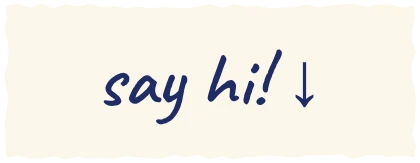
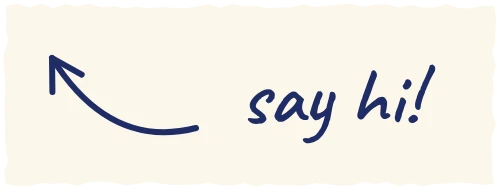
WIP: builders' in-progress edits
Claude-Session: https://claude.ai/code/session_016nJieuj3hz1PRLzcMUTyK7

Changed region(s): [[0.4952, 0.3067, 0.8976, 0.7669], [0.0929, 0.2761, 0.4643, 0.7669]]

diff --git a/site/js/dom.js b/site/js/dom.js
@@ -1,7 +1,7 @@
 // The DOM half of the page: sections laid out from the timeline, pins,
 // scroll-keyed reveals, the countdown, and project captions that follow the
 // room's camera. Everything is driven from the same frame as WebGL.
-import { TIMELINE as T, clamp01, flashEnvelope, progress, smooth, softPin } from './motion/timeline.js';
+import { LEAK, TIMELINE as T, clamp01, flashEnvelope, progress, smooth, softPin, wallLeak } from './motion/timeline.js';
 
 const opacityStyle = (value) => value.toFixed(3);
 
@@ -10,7 +10,12 @@ const opacityStyle = (value) => value.toFixed(3);
 // page's text whites out with the scene. The warmth of the build and decay
 // comes from the composite showing through as the veil fades. Distances are
 // in frame heights, as in the composite.
-const VEIL = { centre: [255, 252, 244], edge: [251, 239, 218], falloff: 2, edgeOpacity: 1 };
+const VEIL = { centre: [255, 252, 244], edge: [251, 239, 218], falloff: 2, edgeOpacity: 1, origin: [0.5, 0.5] };
+// The light leak drives a second veil in the same way, painted with the
+// leak's colours: centred on the wall's sun in the upper left (where the
+// page's text sits), cream at the source and amber away from it, and clear at
+// the far side so the room keeps reading through the flare.
+const LEAK_VEIL = { centre: [253, 248, 232], edge: [236, 170, 105], falloff: 0.8, edgeOpacity: 0, origin: [0.1, 0.2] };
 
 export class Dom {
   constructor(doc, { reduced }) {
@@ -23,6 +28,11 @@ export class Dom {
     this.counts = [...doc.querySelectorAll('[data-count]')];
     this.countdown = doc.querySelector('.countdown');
     this.veil = doc.querySelector('[data-flash-veil]');
+    // Fixed over the whole frame: the text it washes scrolls through it.
+    this.leakVeil = doc.createElement('canvas');
+    this.leakVeil.setAttribute('aria-hidden', 'true');
+    this.leakVeil.style.cssText = 'position: fixed; inset: 0; width: 100%; height: calc(var(--vh) * 100); pointer-events: none; opacity: 0; visibility: hidden; will-change: opacity;';
+    doc.getElementById('content')?.after(this.leakVeil);
     this.intros = [...doc.querySelectorAll('[data-intro]')];
     this.projects = [...doc.querySelectorAll('[data-project]')];
     this.counter = doc.querySelector('[data-project-counter]');
@@ -51,7 +61,8 @@ export class Dom {
       const start = T.sections[block.closest('[data-section]').dataset.section][0];
       block.style.top = `${(T.blocks[block.dataset.block] - start) * vh}px`;
     });
-    if (this.veil) this.paintVeil(Math.ceil(this.root.clientWidth / 2), Math.ceil(vh / 2));
+    if (this.veil) this.paintVeil(this.veil, VEIL, Math.ceil(this.root.clientWidth / 2), Math.ceil(vh / 2));
+    if (this.leakVeil.isConnected) this.paintVeil(this.leakVeil, LEAK_VEIL, Math.ceil(this.root.clientWidth / 2), Math.ceil(vh / 2));
     // The countdown's box is the strip's slot at a fixed layout size; each
     // frame scales it from that width to the slot's width on screen.
     this.countdownWidth = this.countdown?.offsetWidth ?? 0;
@@ -60,20 +71,19 @@ export class Dom {
   // Painted once per layout at half resolution, never per frame. The gradient
   // is long and slow, so about one level of triangular noise keeps it from
   // banding into rings. The falloff is separable: across times down.
-  paintVeil(width, height) {
+  paintVeil(canvas, palette, width, height) {
     if (!width || !height) return;
-    const canvas = this.veil;
     canvas.width = width;
     canvas.height = height;
     const context = canvas.getContext('2d');
     const image = context.createImageData(width, height);
     const { data } = image;
-    const { centre, edge, falloff, edgeOpacity } = VEIL;
+    const { centre, edge, falloff, edgeOpacity, origin: [ox, oy] } = palette;
     const across = new Float32Array(width);
-    for (let x = 0; x < width; x += 1) across[x] = Math.exp(-falloff * ((x + 0.5 - width / 2) / height) ** 2);
+    for (let x = 0; x < width; x += 1) across[x] = Math.exp(-falloff * ((x + 0.5 - ox * width) / height) ** 2);
     let seed = 0x9e3779b9;
     for (let y = 0, i = 0; y < height; y += 1) {
-      const down = Math.exp(-falloff * ((y + 0.5) / height - 0.5) ** 2);
+      const down = Math.exp(-falloff * ((y + 0.5) / height - oy) ** 2);
       for (let x = 0; x < width; x += 1, i += 4) {
         const glow = across[x] * down;
         seed ^= seed << 13;
@@ -131,6 +141,10 @@ export class Dom {
       const veil = T.flash.veil * smooth(progress(flashEnvelope(v), [0.05, 0.9])) * (this.reduced ? 0.05 : 1);
       this.set(this.veil, '', opacityStyle(veil));
     }
+    // The leak washes the text out with the scene and lets it back as the room
+    // settles. Reduced motion has no leak veil: its composite is a crossfade.
+    const leak = this.reduced ? 0 : LEAK.veil * wallLeak(v) ** 1.5;
+    this.set(this.leakVeil, '', opacityStyle(leak));
 
     // Load-in: each element has a delay (0..1) along the intro.
     this.intros.forEach((el) => {

diff --git a/site/js/motion/timeline.js b/site/js/motion/timeline.js
@@ -24,8 +24,8 @@ export const TIMELINE = {
 
   // Unpinned blocks: the scroll value at which each block's top meets the top of the screen.
   blocks: {
-    'about-intro': 5.74,
-    'about-goal': 6.08,
+    'about-intro': 5.44, // the copy rises in while the camera is still gliding (enters ~4.65)
+    'about-goal': 5.78,
     contact: 14.4,
   },
 
@@ -59,16 +59,15 @@ export const TIMELINE = {
   },
 
   about: {
-    // Glide past the opening cluster at about the copy's speed (the wall drifts up
-    // with a gentle camera drop), then settle by the about cluster. Lengthened by
-    // 0.8 vh so the copy never sits on a photo and peak wall speed stays ~1.2x the copy's.
-    // The glide lands on the about cluster's framing by 5.5, while the whole
-    // copy is on screen, then pushes in slowly until the light leak.
-    dolly: [3.25, 5.5, 6.25],
+    // Glide past the opening cluster (the wall drifts up with a gentle camera
+    // drop) while the about copy starts to rise, land on the cluster's framing
+    // by 5.25, then keep a slow drift and push while the copy scrolls, until
+    // the light leak. The copy stays at least ~170 px off every photo.
+    dolly: [3.25, 5.25, 6.25],
     // The sun swings right and down onto the copy column and the about window
     // fades in over the day's: in by the time the copy rises into view, out
     // once the light leak has hidden the wall.
-    light: { in: [4.3, 5.0], fade: [4.3, 4.9], out: [6.42, 6.75] },
+    light: { in: [4.1, 4.75], fade: [4.1, 4.65], out: [6.42, 6.75] },
   },
 
   transitions: {
@@ -137,6 +136,22 @@ export const softPin = (x, length, s = TIMELINE.softness) => {
 export const flashEnvelope = (v, { fire, rise, fade } = TIMELINE.flash) => (v < fire
   ? smooth(progress(v, [fire - rise, fire]))
   : (1 - smooth(progress(v, [fire, fire + fade]))) ** 2);
+
+// Wall to room is light, not a wipe. In fractions of the transition window:
+// the glare builds to its peak exactly as the chapters cross (the swap is
+// centred on the peak, `half` either side, 0.15 vh in all), then decays over
+// the rest of the window and eases out, so the room's darkness arrives as a
+// ramp that settles instead of stopping dead. `veil` is the peak opacity of
+// the DOM veil that washes the page's text out with the flare.
+export const LEAK = { peak: 0.3, half: 0.125, veil: 0.85 };
+export const leakGlare = (p) => {
+  if (p < LEAK.peak) return smooth(p / LEAK.peak) ** 0.45;
+  const q = (p - LEAK.peak) / (1 - LEAK.peak);
+  return (1 - q) ** 1.75 * (1 + 0.75 * q);
+};
+// The same glare keyed on scroll, 0 outside the window. The composite and the
+// DOM veil both read it, so the text washes exactly with the scene.
+export const wallLeak = (v) => leakGlare(progress(v, TIMELINE.transitions.wallToRoom));
 
 // Critically damped approach, frame-rate independent.
 export const damp = (current, target, lambda, dt) => current + (target - current) * (1 - Math.exp(-lambda * dt));

diff --git a/tools/bake/manifest.js b/tools/bake/manifest.js
@@ -481,7 +481,37 @@ export const TEXTURES = {
       { image: p.poster, zoom: 1.75, focusX: 0.75, focusY: 0.4 }, { image: p.portrait, focusY: 0.44 },
     ], { look: 'color', stamp: "'26 11 02", seed: 9 }),
   },
-  'note-hello': { make: () => note('say hi! ↓', { width: 420, font: '600 76px Caveat', seed: 53 }) },
+  // The contact note sits between the strip and the links; its ballpoint arrow
+  // leaves the note's left end and hooks up and left, at the email.
+  'note-hello': {
+    make: () => {
+      const canvas = makeCanvas(500, 190);
+      const ctx = canvas.getContext('2d');
+      roughRect(ctx, 6, 6, 488, 178, { jitter: 2.5, step: 12, seed: 53 });
+      ctx.fillStyle = '#fbf6ea';
+      ctx.fill();
+      ctx.fillStyle = INK;
+      ctx.strokeStyle = INK;
+      ctx.font = '600 80px Caveat';
+      ctx.textAlign = 'center';
+      ctx.textBaseline = 'middle';
+      ctx.fillText('say hi!', 330, 102);
+      ctx.lineCap = 'round';
+      ctx.lineJoin = 'round';
+      ctx.lineWidth = 6;
+      ctx.beginPath();
+      ctx.moveTo(196, 128);
+      ctx.quadraticCurveTo(110, 150, 52, 58);
+      ctx.stroke();
+      const back = Math.atan2(150 - 58, 110 - 52);
+      ctx.beginPath();
+      ctx.moveTo(52 + Math.cos(back + 0.55) * 34, 58 + Math.sin(back + 0.55) * 34);
+      ctx.lineTo(52, 58);
+      ctx.lineTo(52 + Math.cos(back - 0.5) * 34, 58 + Math.sin(back - 0.5) * 34);
+      ctx.stroke();
+      return canvas;
+    },
+  },
   // The dusk window, thrown at a grazing angle: the left column is one tall pane
   // (both bars bridged), widened to the left, so the call to action sits in one
   // long patch of sun; the right column's bars and leaves rake across the strip.

diff --git a/site/js/app.js b/site/js/app.js
@@ -2,7 +2,7 @@
 // HDR target; the pipeline blends chapters, blooms, tone maps and presents.
 import * as THREE from 'three';
 import { Pipeline } from './post/pipeline.js';
-import { STATES, TIMELINE as T, clamp01, easeInOut, flashEnvelope, lerp, progress, smooth } from './motion/timeline.js';
+import { LEAK, STATES, TIMELINE as T, clamp01, easeInOut, flashEnvelope, leakGlare, lerp, progress, smooth } from './motion/timeline.js';
 import { SmoothScroll } from './motion/scroll.js';
 import { pendingUploads, uploadOne } from './engine/textures.js';
 import { WallChapter } from './chapters/wall.js';
@@ -30,17 +30,6 @@ const mixLook = (a, b, t) => {
 const FALLBACK = new THREE.Color(0xd9c7ad);
 const CROSSFADE = 4;
 
-// Wall to room is light, not a wipe. In fractions of the transition window:
-// the glare builds to its peak exactly as the chapters cross (the swap is
-// centred on the peak, `half` either side, 0.15 vh in all), then decays over
-// the rest of the window and eases out, so the room's darkness arrives as a
-// ramp that settles instead of stopping dead.
-const LEAK = { peak: 0.3, half: 0.125 };
-const leakGlare = (p) => {
-  if (p < LEAK.peak) return smooth(p / LEAK.peak) ** 0.6;
-  const q = (p - LEAK.peak) / (1 - LEAK.peak);
-  return (1 - q) ** 1.75 * (1 + 0.75 * q);
-};
 // The glare opens the lens: exposure lifts, bloom and halation spread its
 // energy, and the vignette eases (the shader vignettes only the scene).
 const glareLook = (look, g) => ({

diff --git a/site/js/chapters/wall.js b/site/js/chapters/wall.js
@@ -14,8 +14,8 @@ const RAIL = new Rail([
   { v: 0, pos: [-2.63, 0, 13.36], look: [-0.68, 0, 0.5] },
   { v: T.flash.push[1], pos: [-1.35, 0.12, 11.6], look: [0.75, 0.05, 0.45] },
   { v: T.about.dolly[0], pos: [-1.9, 0.04, 12.7], look: [0.05, 0, 0.5] },
-  { v: T.about.dolly[1], pos: [12.15, -1.47, 13.8], look: [14.15, -1.5, 0.5] },
-  { v: T.about.dolly[2], pos: [12.45, -1.45, 13.6], look: [14.35, -1.5, 0.5] },
+  { v: T.about.dolly[1], pos: [12.0, -1.47, 13.9], look: [14.0, -1.5, 0.5] },
+  { v: T.about.dolly[2], pos: [12.55, -1.45, 13.4], look: [14.45, -1.5, 0.5] },
   { v: T.transitions.deskToWall[0], pos: [25.6, -0.05, 12.8], look: [27.6, 0, 0.5] },
   { v: T.total, pos: [26.3, 0.0, 11.7], look: [28.1, 0, 0.5] },
 ]);
